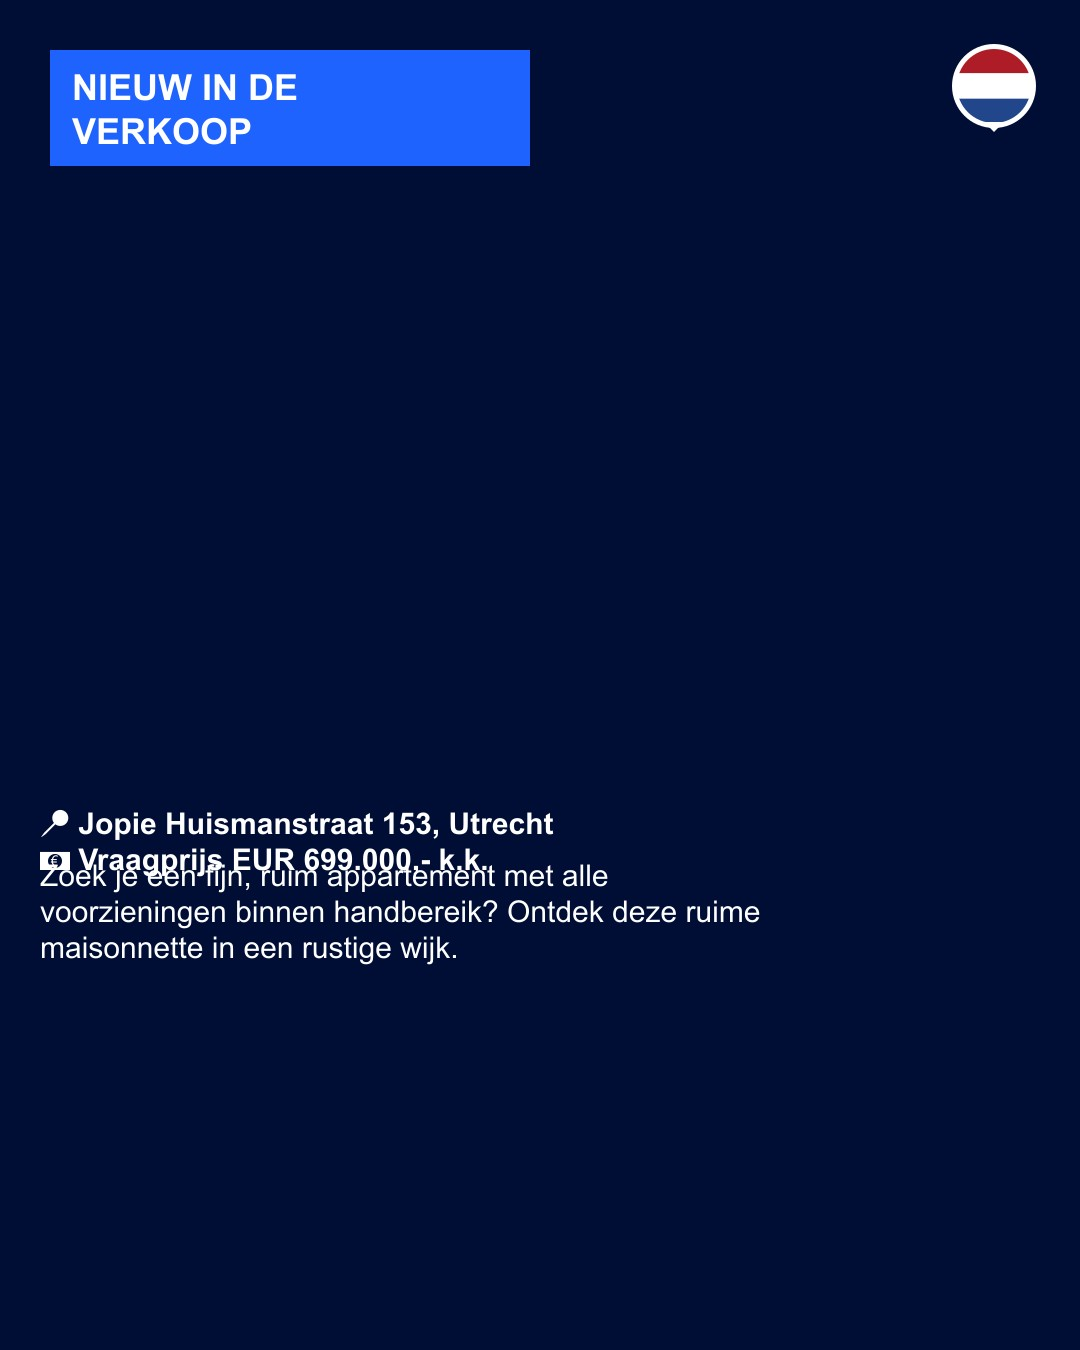
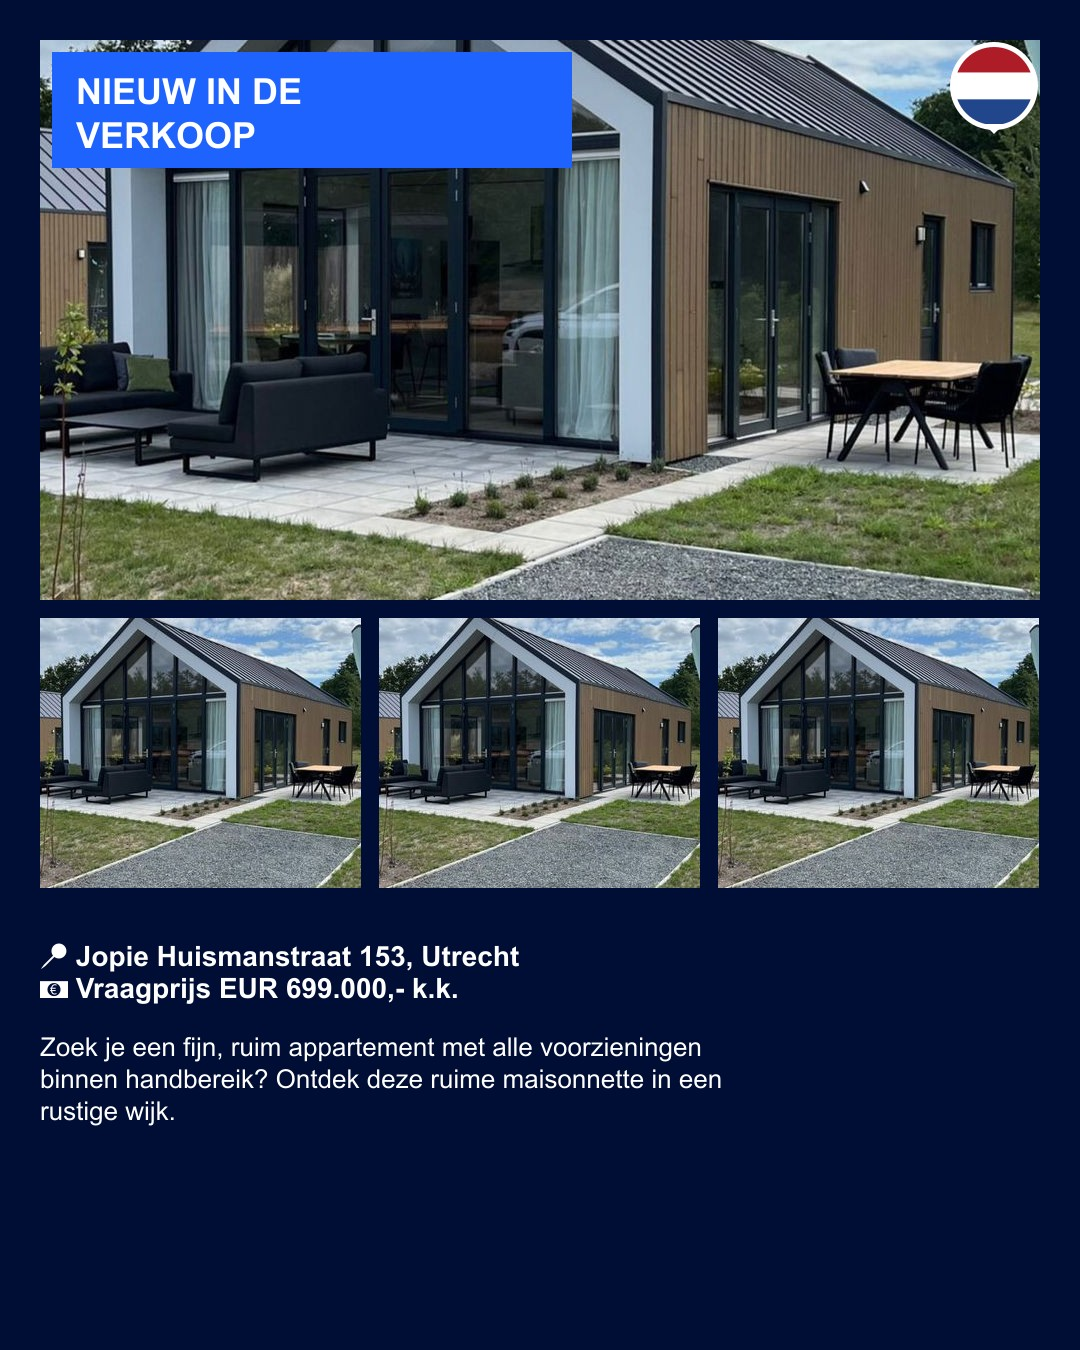
update

diff --git a/ig-demo/scripts/render-image.js b/ig-demo/scripts/render-image.js
@@ -1,188 +1,1 @@
-import "dotenv/config";
-import fs from "fs/promises";
-import path from "path";
-import sharp from "sharp";
-
-const {
-  LOCAL_IMAGE_PATH,
-  OUTPUT_IMAGE_PATH = "./output/ig-card.jpg",
-  LOGO_PATH,
-  ADDRESS,
-  CITY,
-  PRICE_EUR,
-  BRAND_BLUE = "#000e36",
-  BRAND_RED = "#ff1100",
-  BADGE_COLOR = "#1f63ff",
-  TEXT_COLOR = "#ffffff",
-  HEADLINE_TEXT = "NIEUW IN DE VERKOOP",
-  DESCRIPTION_TEXT =
-    "Zoek je een fijn, ruim appartement met alle voorzieningen binnen handbereik? Voeg hier je eigen beschrijving toe.",
-} = process.env;
-
-function requireEnv(name, value) {
-  if (!value) {
-    throw new Error(`Missing ${name}. Set it in .env`);
-  }
-}
-
-requireEnv("LOCAL_IMAGE_PATH", LOCAL_IMAGE_PATH);
-
-function formatPrice(value) {
-  if (!value) return "";
-  const digits = String(value).replace(/[^0-9]/g, "");
-  if (!digits) return String(value).trim();
-  const number = Number(digits);
-  if (!Number.isFinite(number)) return String(value).trim();
-  return new Intl.NumberFormat("nl-NL").format(number);
-}
-
-function escapeXml(text) {
-  return String(text)
-    .replace(/&/g, "&amp;")
-    .replace(/</g, "&lt;")
-    .replace(/>/g, "&gt;");
-}
-
-function wrapText(text, maxChars) {
-  const words = String(text).split(/\s+/).filter(Boolean);
-  const lines = [];
-  let line = "";
-  for (const word of words) {
-    const next = line ? `${line} ${word}` : word;
-    if (next.length > maxChars && line) {
-      lines.push(line);
-      line = word;
-    } else {
-      line = next;
-    }
-  }
-  if (line) lines.push(line);
-  return lines;
-}
-
-async function render() {
-  const canvasW = 1080;
-  const canvasH = 1350;
-  const margin = 40;
-  const gap = 18;
-  const topH = 560;
-  const smallH = 240;
-  const topW = canvasW - margin * 2;
-  const smallW = Math.floor((topW - gap * 2) / 3);
-
-  const topY = margin;
-  const smallY = topY + topH + gap;
-  const textY = smallY + smallH + gap + 10;
-
-  const base = sharp(LOCAL_IMAGE_PATH);
-  const topBuffer = await base
-    .clone()
-    .resize({ width: topW, height: topH, fit: "cover" })
-    .toBuffer();
-
-  const smallBuffer = await base
-    .clone()
-    .resize({ width: smallW, height: smallH, fit: "cover" })
-    .toBuffer();
-
-  const addressLine = [ADDRESS, CITY].filter(Boolean).join(", ");
-  const price = formatPrice(PRICE_EUR);
-
-  const headlineLines = wrapText(HEADLINE_TEXT, 18).slice(0, 2);
-  const descLines = wrapText(DESCRIPTION_TEXT, 54).slice(0, 6);
-
-  const badgePaddingX = 22;
-  const badgePaddingY = 14;
-  const badgeLineHeight = 44;
-  const badgeW = 480;
-  const badgeH =
-    badgePaddingY * 2 + badgeLineHeight * headlineLines.length;
-
-  const badgeX = margin + 10;
-  const badgeY = margin + 10;
-
-  const pinR = 38;
-  const pinX = canvasW - margin - pinR - 8;
-  const pinY = margin + pinR + 8;
-
-  const textStartX = margin;
-  const textLineHeight = 36;
-  const textSize = 30;
-
-  const descSvgLines = descLines
-    .map((line, i) => {
-      return `<text x="${textStartX}" y="${textY + i * textLineHeight}" font-family="Arial, sans-serif" font-size="${textSize}" font-weight="400" fill="${TEXT_COLOR}">${escapeXml(line)}</text>`;
-    })
-    .join("");
-
-  const detailLines = [];
-  if (addressLine) detailLines.push(`📍 ${addressLine}`);
-  if (price) detailLines.push(`💶 Vraagprijs EUR ${price},- k.k.`);
-  const detailSvgLines = detailLines
-    .map((line, i) => {
-      return `<text x="${textStartX}" y="${textY - 16 - (detailLines.length - 1 - i) * textLineHeight}" font-family="Arial, sans-serif" font-size="${textSize}" font-weight="600" fill="${TEXT_COLOR}">${escapeXml(line)}</text>`;
-    })
-    .join("");
-
-  const badgeText = headlineLines
-    .map((line, i) => {
-      return `<text x="${badgeX + badgePaddingX}" y="${badgeY + badgePaddingY + badgeLineHeight * (i + 1) - 8}" font-family="Arial, sans-serif" font-size="36" font-weight="800" fill="#ffffff">${escapeXml(line)}</text>`;
-    })
-    .join("");
-
-  const pinSvg = `
-    <g>
-      <defs>
-        <clipPath id="pinClip">
-          <circle cx="${pinX}" cy="${pinY}" r="${pinR}" />
-        </clipPath>
-      </defs>
-      <circle cx="${pinX}" cy="${pinY}" r="${pinR + 4}" fill="#ffffff" />
-      <g clip-path="url(#pinClip)">
-        <rect x="${pinX - pinR}" y="${pinY - pinR}" width="${pinR * 2}" height="${(pinR * 2) / 3}" fill="#ae1c28" />
-        <rect x="${pinX - pinR}" y="${pinY - pinR + (pinR * 2) / 3}" width="${pinR * 2}" height="${(pinR * 2) / 3}" fill="#ffffff" />
-        <rect x="${pinX - pinR}" y="${pinY - pinR + (pinR * 4) / 3}" width="${pinR * 2}" height="${(pinR * 2) / 3}" fill="#21468b" />
-      </g>
-      <circle cx="${pinX}" cy="${pinY}" r="${pinR}" fill="none" stroke="#ffffff" stroke-width="2" />
-      <polygon points="${pinX},${pinY + pinR + 8} ${pinX - 10},${pinY + pinR - 2} ${pinX + 10},${pinY + pinR - 2}" fill="#ffffff" />
-    </g>
-  `;
-
-  const overlaySvg = `
-<svg width="${canvasW}" height="${canvasH}" xmlns="http://www.w3.org/2000/svg">
-  <rect x="0" y="0" width="${canvasW}" height="${canvasH}" fill="${BRAND_BLUE}" />
-  <rect x="${badgeX}" y="${badgeY}" width="${badgeW}" height="${badgeH}" fill="${BADGE_COLOR}" />
-  ${badgeText}
-  ${pinSvg}
-  ${detailSvgLines}
-  ${descSvgLines}
-</svg>`;
-
-  const outputPath = path.resolve(OUTPUT_IMAGE_PATH);
-  await fs.mkdir(path.dirname(outputPath), { recursive: true });
-
-  await sharp({
-    create: {
-      width: canvasW,
-      height: canvasH,
-      channels: 3,
-      background: BRAND_BLUE,
-    },
-  })
-    .composite([
-      { input: topBuffer, left: margin, top: topY },
-      { input: smallBuffer, left: margin, top: smallY },
-      { input: smallBuffer, left: margin + smallW + gap, top: smallY },
-      { input: smallBuffer, left: margin + (smallW + gap) * 2, top: smallY },
-      { input: Buffer.from(overlaySvg) },
-    ])
-    .jpeg({ quality: 90 })
-    .toFile(outputPath);
-
-  console.log(`Rendered image: ${outputPath}`);
-}
-
-render().catch((err) => {
-  console.error(err.message || err);
-  process.exit(1);
-});
+import "dotenv/config";import fs from "fs/promises";import path from "path";import sharp from "sharp";const {  LOCAL_IMAGE_PATH,  OUTPUT_IMAGE_PATH = "./output/ig-card.jpg",  LOGO_PATH,  ADDRESS,  CITY,  PRICE_EUR,  BRAND_BLUE = "#000e36",  BRAND_RED = "#ff1100",  BADGE_COLOR = "#1f63ff",  TEXT_COLOR = "#ffffff",  HEADLINE_TEXT = "NIEUW IN DE VERKOOP",  DESCRIPTION_TEXT =    "Zoek je een fijn, ruim appartement met alle voorzieningen binnen handbereik? Voeg hier je eigen beschrijving toe.",} = process.env;function requireEnv(name, value) {  if (!value) {    throw new Error(`Missing ${name}. Set it in .env`);  }}requireEnv("LOCAL_IMAGE_PATH", LOCAL_IMAGE_PATH);function normalizeString(value) {  if (!value) return "";  return String(value).trim().replace(/^\"|\"$/g, "");}function normalizeColor(value, fallback) {  const cleaned = normalizeString(value);  return cleaned || fallback;}function formatPrice(value) {  if (!value) return "";  const digits = String(value).replace(/[^0-9]/g, "");  if (!digits) return String(value).trim();  const number = Number(digits);  if (!Number.isFinite(number)) return String(value).trim();  return new Intl.NumberFormat("nl-NL").format(number);}function escapeXml(text) {  return String(text)    .replace(/&/g, "&amp;")    .replace(/</g, "&lt;")    .replace(/>/g, "&gt;");}function wrapText(text, maxChars) {  const words = String(text).split(/\s+/).filter(Boolean);  const lines = [];  let line = "";  for (const word of words) {    const next = line ? `${line} ${word}` : word;    if (next.length > maxChars && line) {      lines.push(line);      line = word;    } else {      line = next;    }  }  if (line) lines.push(line);  return lines;}async function render() {  const canvasW = 1080;  const canvasH = 1350;  const margin = 40;  const gap = 18;  const topH = 560;  const smallH = 270;  const topW = canvasW - margin * 2;  const smallW = Math.floor((topW - gap * 2) / 3);  const topY = margin;  const smallY = topY + topH + gap;  const textBlockTop = smallY + smallH + gap + 60;  const base = sharp(LOCAL_IMAGE_PATH);  const topBuffer = await base    .clone()    .resize({ width: topW, height: topH, fit: "cover" })    .toBuffer();  const smallBuffer = await base    .clone()    .resize({ width: smallW, height: smallH, fit: "cover" })    .toBuffer();  const addressLine = [ADDRESS, CITY].filter(Boolean).join(", ");  const price = formatPrice(PRICE_EUR);  const brandBlue = normalizeColor(BRAND_BLUE, "#000e36");  const badgeColor = normalizeColor(BADGE_COLOR, "#1f63ff");  const textColor = normalizeColor(TEXT_COLOR, "#ffffff");  const headlineLines = wrapText(HEADLINE_TEXT, 18).slice(0, 2);  const descLines = wrapText(DESCRIPTION_TEXT, 58).slice(0, 8);  const badgePaddingX = 24;  const badgePaddingY = 14;  const badgeLineHeight = 44;  const badgeW = 520;  const badgeH =    badgePaddingY * 2 + badgeLineHeight * headlineLines.length;  const badgeX = margin + 12;  const badgeY = margin + 12;  const pinR = 40;  const pinX = canvasW - margin - pinR - 6;  const pinY = margin + pinR + 6;  const textStartX = margin;  const detailLineHeight = 32;  const descLineHeight = 32;  const detailSize = 28;  const descSize = 26;  const detailLines = [];  if (addressLine) detailLines.push(`📍 ${addressLine}`);  if (price) detailLines.push(`💶 Vraagprijs EUR ${price},- k.k.`);  const detailSvgLines = detailLines    .map((line, i) => {      return `<text x="${textStartX}" y="${textBlockTop + i * detailLineHeight}" font-family="Arial, sans-serif" font-size="${detailSize}" font-weight="600" fill="${textColor}">${escapeXml(line)}</text>`;    })    .join("");  const descStartY = textBlockTop + detailLines.length * detailLineHeight + 26;  const descSvgLines = descLines    .map((line, i) => {      return `<text x="${textStartX}" y="${descStartY + i * descLineHeight}" font-family="Arial, sans-serif" font-size="${descSize}" font-weight="400" fill="${textColor}">${escapeXml(line)}</text>`;    })    .join("");  const badgeText = headlineLines    .map((line, i) => {      return `<text x="${badgeX + badgePaddingX}" y="${badgeY + badgePaddingY + badgeLineHeight * (i + 1) - 6}" font-family="Arial, sans-serif" font-size="36" font-weight="800" fill="#ffffff">${escapeXml(line)}</text>`;    })    .join("");  const pinSvg = `    <g>      <defs>        <clipPath id="pinClip">          <circle cx="${pinX}" cy="${pinY}" r="${pinR}" />        </clipPath>      </defs>      <circle cx="${pinX}" cy="${pinY}" r="${pinR + 4}" fill="#ffffff" />      <g clip-path="url(#pinClip)">        <rect x="${pinX - pinR}" y="${pinY - pinR}" width="${pinR * 2}" height="${(pinR * 2) / 3}" fill="#ae1c28" />        <rect x="${pinX - pinR}" y="${pinY - pinR + (pinR * 2) / 3}" width="${pinR * 2}" height="${(pinR * 2) / 3}" fill="#ffffff" />        <rect x="${pinX - pinR}" y="${pinY - pinR + (pinR * 4) / 3}" width="${pinR * 2}" height="${(pinR * 2) / 3}" fill="#21468b" />      </g>      <circle cx="${pinX}" cy="${pinY}" r="${pinR}" fill="none" stroke="#ffffff" stroke-width="2" />      <polygon points="${pinX},${pinY + pinR + 8} ${pinX - 10},${pinY + pinR - 2} ${pinX + 10},${pinY + pinR - 2}" fill="#ffffff" />    </g>  `;  const overlaySvg = `<svg width="${canvasW}" height="${canvasH}" xmlns="http://www.w3.org/2000/svg">  <rect x="${badgeX}" y="${badgeY}" width="${badgeW}" height="${badgeH}" fill="${badgeColor}" />  ${badgeText}  ${pinSvg}  ${detailSvgLines}  ${descSvgLines}</svg>`;  const outputPath = path.resolve(OUTPUT_IMAGE_PATH);  await fs.mkdir(path.dirname(outputPath), { recursive: true });  await sharp({    create: {      width: canvasW,      height: canvasH,      channels: 3,      background: brandBlue,    },  })    .composite([      { input: topBuffer, left: margin, top: topY },      { input: smallBuffer, left: margin, top: smallY },      { input: smallBuffer, left: margin + smallW + gap, top: smallY },      { input: smallBuffer, left: margin + (smallW + gap) * 2, top: smallY },      { input: Buffer.from(overlaySvg) },    ])    .jpeg({ quality: 90 })    .toFile(outputPath);  console.log(`Rendered image: ${outputPath}`);}render().catch((err) => {  console.error(err.message || err);  process.exit(1);});
